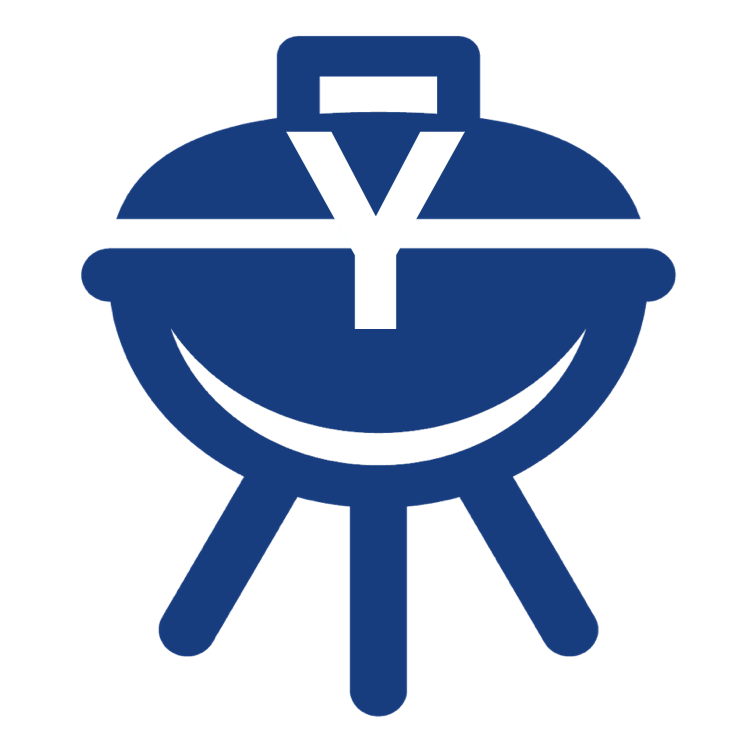
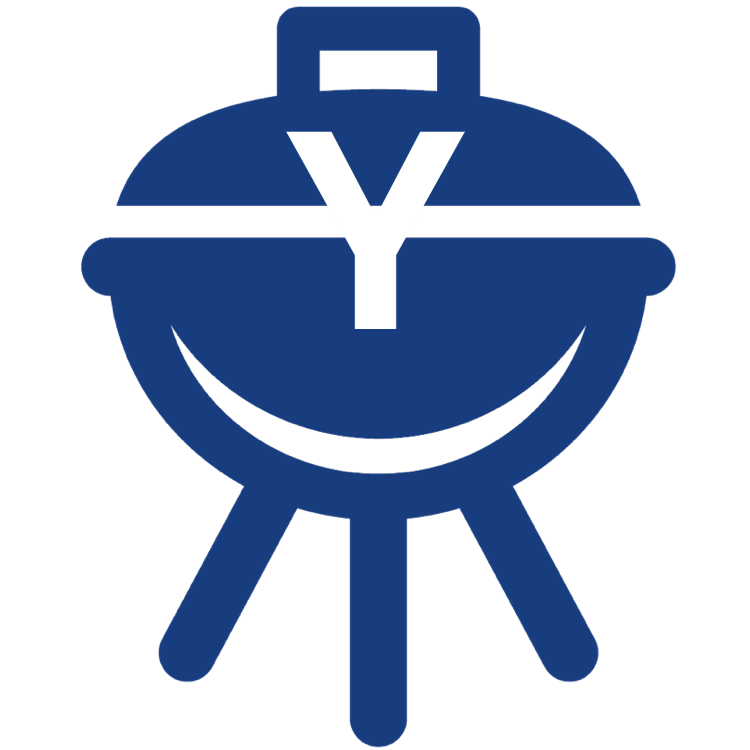
Updated launch screen and changed String 'orderStatus' to a boolean 'isFinished'

diff --git a/YaleGrill/Orders.swift b/YaleGrill/Orders.swift
@@ -26,7 +26,7 @@ class Orders: AWSDynamoDBObjectModel, AWSDynamoDBModeling {
     var sauceSetting: String?
     var lettuceSetting: String?
     var tomatoSetting: String?
-    var orderStatus: String?
+    var isFinished: NSNumber?
     
     class func dynamoDBTableName() -> String {
 
@@ -42,7 +42,7 @@ class Orders: AWSDynamoDBObjectModel, AWSDynamoDBModeling {
         return "orderNumber"
     }
     
-    class func returnNewRow(_email: String,_orderNum: Int,_name : String, _foodServing : String, _bunSetting : String, _cheeseSetting : String, _sauceSetting : String, _lettuceSetting : String, _tomatoSetting: String, _status : String) -> Orders {
+    class func returnNewRow(_email: String,_orderNum: Int,_name : String, _foodServing : String, _bunSetting : String, _cheeseSetting : String, _sauceSetting : String, _lettuceSetting : String, _tomatoSetting: String, _isFinished : NSNumber) -> Orders {
         let row = Orders()
         row?.email = _email
         row?.orderNumber = _orderNum as NSNumber?
@@ -53,7 +53,7 @@ class Orders: AWSDynamoDBObjectModel, AWSDynamoDBModeling {
         row?.sauceSetting = _sauceSetting
         row?.lettuceSetting = _lettuceSetting
         row?.tomatoSetting = _tomatoSetting
-        row?.orderStatus = _status
+        row?.isFinished = _isFinished
 
         return row!
     }

diff --git a/YaleGrill/OrderScreen.swift b/YaleGrill/OrderScreen.swift
@@ -69,7 +69,7 @@ class OrderScreen: UIViewController, GIDSignInUIDelegate {
         let cOrderNum = cOrder.orderNumber! as Int
         var cOrderLabels = OrderLabelsArray[cOrderNum]
         totalOrderArray[cOrderNum] = cOrder
-        if(cOrder.orderStatus=="Finished"){
+        if(cOrder.isFinished==1){
             cOrderLabels[6].isHidden=true
             cOrderLabels[7].isHidden=true
             FoodIsReadyLabelArray[cOrderNum].isHidden=false
@@ -126,7 +126,9 @@ class OrderScreen: UIViewController, GIDSignInUIDelegate {
                 OrderLabelsArray[index][0].text=cOrder.foodServing
                 OrderLabelsArray[index][0].isHidden = false
                 OrderLabelsArray[index][6].isHidden=false
-                OrderLabelsArray[index][7].text=cOrder.orderStatus
+                if(cOrder.isFinished==0){
+                    OrderLabelsArray[index][7].text="Preparing..."
+                }
                 OrderLabelsArray[index][7].isHidden = false
                 if(cOrder.bunSetting != "EMPTY_STRING"){
                     for itemLabel in OrderLabelsArray[index]{

diff --git a/YaleGrill/FoodScreen.swift b/YaleGrill/FoodScreen.swift
@@ -78,7 +78,7 @@ class FoodScreen: UIViewController, GIDSignInUIDelegate{
                         }
                     }
                 }
-                let tempOrder = Orders.returnNewRow(_email: cEmail, _orderNum: tempOrderNumber, _name: cName, _foodServing: orderInfo[0], _bunSetting: orderInfo[1], _cheeseSetting: orderInfo[2], _sauceSetting: orderInfo[3], _lettuceSetting: orderInfo[4], _tomatoSetting: orderInfo[5], _status: "Preparing...")
+                let tempOrder = Orders.returnNewRow(_email: cEmail, _orderNum: tempOrderNumber, _name: cName, _foodServing: orderInfo[0], _bunSetting: orderInfo[1], _cheeseSetting: orderInfo[2], _sauceSetting: orderInfo[3], _lettuceSetting: orderInfo[4], _tomatoSetting: orderInfo[5], _isFinished: false)
                 orderArray.append(tempOrder)
                 tempOrderNumber+=1
             }
